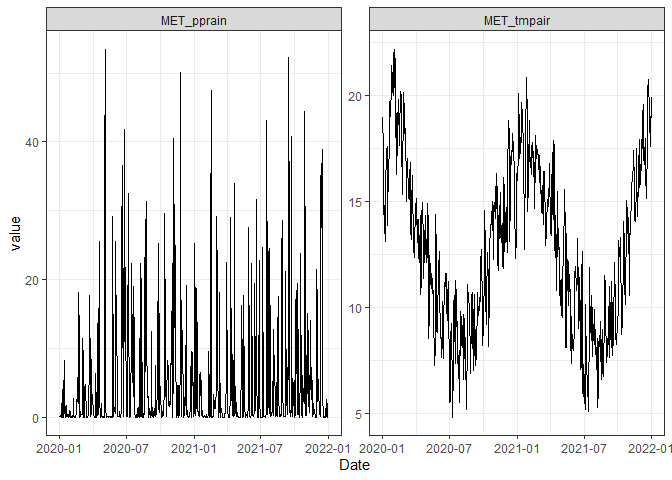
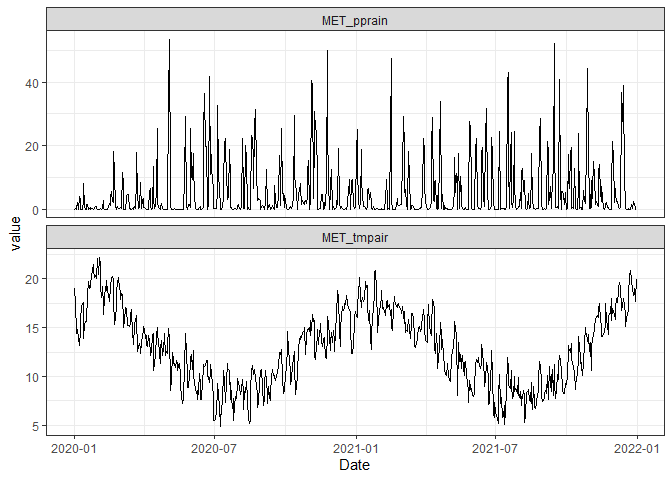
Add limnotrack credit

diff --git a/README.md b/README.md
@@ -1,22 +1,26 @@
 
 <!-- README.md is generated from README.Rmd. Please edit that file -->
 
-# aemetools <a href="https://special-enigma-8p9lgre.pages.github.io/"><img src="man/figures/logo.png" align="right" height="120" alt="aemetools website" /></a>
+# aemetools <a href="https://limnotrack.github.io/aemetools/"><img src="man/figures/logo.png" alt="aemetools website" align="right" height="120"/></a>
 
 <!-- badges: start -->
 
 [![Lifecycle:
-experimental](https://img.shields.io/badge/lifecycle-experimental-orange.svg)](https://lifecycle.r-lib.org/articles/stages.html#experimental)
+stable](https://img.shields.io/badge/lifecycle-stable-green.svg)](https://lifecycle.r-lib.org/articles/stages.html#stable)
 [![R-CMD-check](https://github.com/limnotrack/aemetools/actions/workflows/R-CMD-check.yaml/badge.svg)](https://github.com/limnotrack/aemetools/actions/workflows/R-CMD-check.yaml)
 [![Codecov test
 coverage](https://codecov.io/gh/limnotrack/aemetools/branch/main/graph/badge.svg)](https://app.codecov.io/gh/limnotrack/aemetools?branch=main)
+
 <!-- badges: end -->
 
 aemetools is designed to work with
 [AEME](https://github.com/limnotrack/AEME/). It contains a range of
 functions to assist in setting up simulations for a lake site.
 
-Currently, you can use this to:
+This package was developed by [LimnoTrack](http://limnotrack.com/).
+<a href="http://limnotrack.com/"><img src="man/figures/limnotrack_border.jpg" alt="LimnoTrack website" align="right" height="120"/></a>
+
+Currently, this package can be used to:
 
 - Download meteorological data from
   [ERA5-Land](https://www.ecmwf.int/en/era5-land) for any point in New
@@ -38,6 +42,10 @@ You can install the development version of aemetools from
 devtools::install_github("limnotrack/aemetools")
 ```
 
+``` r
+library(aemetools)
+```
+
 ### Download NZ point meteorological data
 
 Currently, there is ERA5-Land data (~9km grid spacing) archived for New
@@ -51,7 +59,6 @@ below. There is a `parallel` switch which allows you to use multiple
 cores on your computer to speed up the download.
 
 ``` r
-library(aemetools)
 
 lon <- 176.2717
 lat <- -38.079
@@ -61,8 +68,8 @@ met <- get_era5_point(lat = lat, lon = lon, years = 2020:2021,
                       variables = variables, format = "aeme", parallel = TRUE)
 #> Checking if lat/lon point is in the grid...
 #> Point is in the grid.
-#> Downloading ERA5 variables in parallel... [2024-05-14 14:22:37]
-#> Finished downloading ERA5 variables! [2024-05-14 14:22:47]
+#> Downloading ERA5 variables in parallel... [2024-08-27 13:59:14]
+#> Finished downloading ERA5 variables! [2024-08-27 13:59:25]
 summary(met)
 #>       Date              MET_tmpair       MET_pprain      
 #>  Min.   :2020-01-01   Min.   : 4.848   Min.   : 0.00000  
@@ -82,7 +89,7 @@ met |>
   pivot_longer(cols = c(MET_tmpair, MET_pprain)) |> 
   ggplot(aes(x = Date, y = value)) +
   geom_line() +
-  facet_wrap(~name, scales = "free_y") +
+  facet_wrap(~name, scales = "free_y", ncol = 1) +
   theme_bw()
 ```
 
@@ -91,12 +98,12 @@ met |>
 ### Calibrate AEME model
 
 See the vignette
-[here](https://special-enigma-8p9lgre.pages.github.io/articles/calibrate-aeme.html)
+[here](https://limnotrack.github.io/aemetools/articles/calibrate-aeme.html).
 
 ### Sensitivity analysis for AEME models
 
 See the vignette
-[here](https://special-enigma-8p9lgre.pages.github.io/articles/sensitivity-analysis.html)
+[here](https://limnotrack.github.io/aemetools/articles/sensitivity-analysis.html).
 
 ### Hydrological modelling - Run GR4J model
 
@@ -123,10 +130,6 @@ inputs <- make_GR_inputs(id = id, reaches = reaches, lake = lake,
                          catchments = catchments, obs_flow = obs_flow, met = met,
                          lat = lat, FUN_MOD = FUN_MOD,
                          plot = TRUE)
-#> Warning: attribute variables are assumed to be spatially constant throughout
-#> all geometries
-#> Warning in make_GR_inputs(id = id, reaches = reaches, lake = lake, catchments =
-#> catchments, : NA values present. Selecting period with less NA's.
 ```
 
 <img src="man/figures/README-make-gr4j-inputs-1.png" width="100%" />
